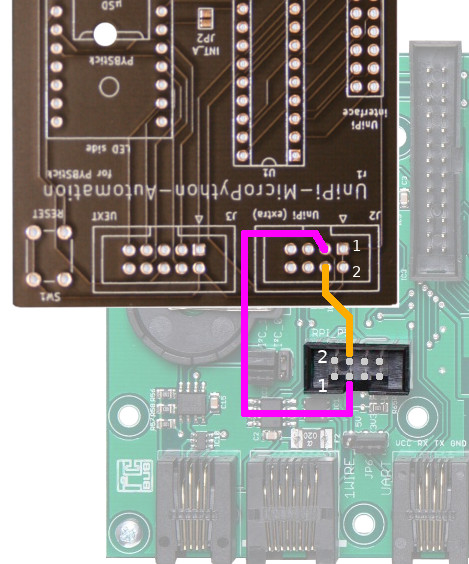
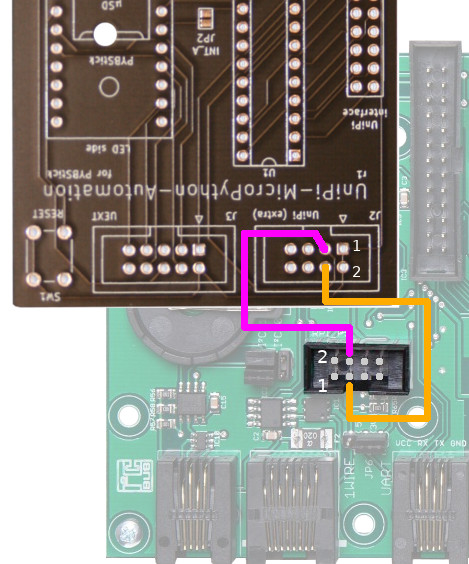
Support Pyboard & new EEPROM lib

Changed region(s): [[0.5075, 0.5124, 0.9254, 0.7535]]

diff --git a/UniPi-MicroPython-Automation/lib/unipi.py b/UniPi-MicroPython-Automation/lib/unipi.py
@@ -33,8 +33,11 @@ __version__ = '0.0.1'
 from machine import I2C, SPI, UART, Pin
 from pyb import Timer
 from mcp230xx import MCP23017, MCP23008
-from mcp24cxx import Eeprom_24C02C
+from eeprom24Cxx import Eeprom_24C02C
 import struct
+
+BOARD_PYBSTICK = 0
+BOARD_PYBOARD  = 1
 
 DEFAULT_ADC_FACTOR = 5.54 # ADC have voltage Divider 10K + 2K. More precise value is stored into the EEPROM
 
@@ -51,8 +54,9 @@ class UniPiError( Exception ):
 	pass
 
 class UniPi:
-	def __init__( self, i2c ):
+	def __init__( self, i2c, board ):
 		self.i2c = i2c # main bus for controling the UniPi interface
+		self.board = board # Type of the board BOARD_PYBOARD
 
 		# --- Relays ---
 		try:
@@ -95,10 +99,18 @@ class UniPi:
 
 		# Analog 0 (controled via PWM)
 		self._A0_percent = 0
-		self._pin_A0 = Pin( 'S12' )
-		self._tim2 = Timer(2, freq=500 ) # 500 Hz like Arduino
-		self._ch_A0 = self._tim2.channel( 1, Timer.PWM, pin=self._pin_A0 ) # Channel 1
-		self._ch_A0.pulse_width_percent( self._A0_percent )
+		if self.board == BOARD_PYBSTICK:
+			self._pin_A0 = Pin( 'S12' )
+			self._tim2 = Timer(2, freq=500 ) # 500 Hz like Arduino
+			self._ch_A0 = self._tim2.channel( 1, Timer.PWM, pin=self._pin_A0 ) # Channel 1
+			self._ch_A0.pulse_width_percent( self._A0_percent )
+		elif self.board == BOARD_PYBOARD:
+			self._pin_A0 = Pin( 'X4' )
+			self._tim2 = Timer(2, freq=500 ) # 500 Hz like Arduino
+			self._ch_A0 = self._tim2.channel( 4, Timer.PWM, pin=self._pin_A0 ) # Channel 1
+			self._ch_A0.pulse_width_percent( self._A0_percent )
+		else:
+			raise UniPiError( 'Board type %s not implemented' % self.board )
 
 	@property
 	def analog_out( self ):
@@ -114,7 +126,7 @@ class UniPi:
 		if value >= 100:
 			value = 100
 		self._A0_percent = value
-		print( "set A0 PC to %s" % self._A0_percent )
+		# print( "set A0 PC to %s" % self._A0_percent )
 		self._ch_A0.pulse_width_percent( self._A0_percent )
 
 class UExtFacade:
@@ -122,14 +134,16 @@ class UExtFacade:
 		self.owner = owner
 
 	def i2c( self, **kwargs ):
+		# I2C(1) for PYBStick & Pyboard
 		return I2C(1, **kwargs)
 
 	def spi( self, **kwargs ):
+		# SPI(1) for PYBStick & Pyboard
 		return SPI(1, **kwargs )
 
 	def uart( self, baudrate, **kwargs ):
-		return UART( 1, baudrate, **kwargs )
-
+		# UART(6) for PYBStick & Pyboard
+		return UART( 6, baudrate, **kwargs )
 
 class UniPiEeprom( Eeprom_24C02C ):
 	""" Access the EEPROM on UniPi board """
@@ -199,7 +213,7 @@ class InputFacade:
 		""" Last know state of input stored in the object """
 		index = input_to_gp( key )
 		# Input are low when activated --> Invert the logic
-		return not( self._input.input_pins( [index], read=False )  )# reused stored value
+		return not( self._input.input_pins( [index], read=False )[0]  )# reused stored value
 
 	def read_all( self, read=False ):
 		""" returns a dictionnary with all entries """
@@ -209,8 +223,31 @@ class InputFacade:
 			r[self._list[i][0]] = not(values[i])
 		return r
 
-# I2C bus for PYBStick
-i2c = I2C( 2 ) # S11=sda, S13=scl
+# Detect board type
+board_type = None
+try:
+	Pin(S12)
+	board_type = BOARD_PYBSTICK
+	print('PYBSTICK detected')
+except:
+	pass
+
+if not(board_type):
+	try:
+		Pin('X4')
+		board_type = BOARD_PYBOARD
+		print('PYBOARD detected')
+	except:
+		pass
+
+
+# Must have a board type
+if not(board_type):
+	raise UniPiError( 'Unknown MicroPython board type!' )
+
+# I2C bus for PYBStick (S11=sda, S13=scl)
+# I2C bus for Pyboard  (Y10=sda, Y9=scl)
+i2c = I2C( 2 )
 
 # Instanciate the UniPi
-unipi = UniPi( i2c )
+unipi = UniPi( i2c, board_type )

diff --git a/UniPi-MicroPython-Automation/readme_ENG.md b/UniPi-MicroPython-Automation/readme_ENG.md
@@ -2,9 +2,7 @@
 
 # UniPi-MicroPython-Automation: use an UniPi to creates a MicroPython PLC (Programmable Logic Controler)
 
-*** TRADUCTION ***
-
-Building a MicroPython programmable logic controller (PLC) is a great project. However, an automation interface should not be haphazardly designed. The [UniPi Technologie à créé l'UniPi V1.1](https://shop.mchobby.be/product.php?id_product=1171), a professional quality card designed for Raspberry-Pi.
+Building a MicroPython programmable logic controller (PLC) is a great project. However, an automation interface should not be haphazardly designed. The [UniPi Technologie created the UniPi V1.1](https://shop.mchobby.be/product.php?id_product=1171), a professional quality card designed for Raspberry-Pi.
 
 Why not using it with a MicroPython microcontroleur? We would have the __very first PLC running under Python__!
 
@@ -47,6 +45,29 @@ Many of the PYBStick signals are available on the UEXT connector. If you are not
 
 ![UEXT connector on the PYBStick UniPi Face](docs/_static/unipiface-UEXT.jpg)
 
+## GRL-Pyboard-UniPi board
+
+The [GRL-Pyboard-UniPi](https://shop.mchobby.be/product.php?id_product=2055) board allows to interface the [MicroPython Pyboard](https://shop.mchobby.be/product.php?id_product=570) on the UniPi V1.1 (or UniPi Lite).
+
+![GRL-Pyboard-UniPi interface board](docs/_static/pyboardface-final.jpg)
+
+The J2 connector must be wired (with Dupont wire) to use the I13 & I14 (the wiring is identical for the PYBStick interface)
+
+![Wire the J2 connector](docs/_static/unipi-face-j2.jpg)
+
+The MicroPython Pyboard interface schematic is the following:
+
+![PYBStick-UniPi-Face schematic](docs/_static/pyboardface-schematic.jpg)
+
+Many Pyboard GPIO are still available:
+* __Y3 & Y4__ except if you did solder the interrupt jumper for the MCP23017.
+* __Y5 à Y8, Y11, Y12__
+* __X3, X11, X12__
+* __X17 à X24__
+
+Several Pyboard signals does ends on the UEXT connector. If you do not use this interface then you can grab Pyboard sugnals onto it.
+
+![UEXT connector on the GRL Pyboard UniPi](docs/_static/pyboardface-UEXT.jpg)
 
 # Install
 You will need to copy the following libraries on your MicroPython board to use the UniPiFace + UniPi.
@@ -55,7 +76,7 @@ You will need to copy the following libraries on your MicroPython board to use t
 * `ds2482.py` : 1Wire bus master over I2C (still under development)
 * `mcp342x.py` : ADC conversion
 * `mcp2300xx.py` : GPIO extender
-* `mcp24Cxx.py` : EEPROM access
+* `eeprom24Cxx.py` : EEPROM access
 # Test
 
 ## Relays
@@ -300,8 +321,11 @@ You should have received a copy of the GNU General Public License
 along with this program.  If not, see <https://www.gnu.org/licenses/>
 
 # Shopping list
-* [PYbStick STD](https://shop.mchobby.be/product.php?id_product=1844) or [PYbStick PRO](https://shop.mchobby.be/product.php?id_product=1844)  @ MCHobby
-* [PYBStick-UniPi-Face interface board (UniPi-Face)](https://shop.mchobby.be/product.php?id_product=1891) @ MCHobby
-* [GRL-Pyboard-UniPi interface](https://shop.mchobby.be/product.php?id_product=2055) @ MCHobby)
+* Avec la PYBStick
+ * [PYbStick STD](https://shop.mchobby.be/product.php?id_product=1844) or [PYbStick PRO](https://shop.mchobby.be/product.php?id_product=1844)  @ MCHobby
+ * [PYBStick-UniPi-Face interface board (UniPi-Face)](https://shop.mchobby.be/product.php?id_product=1891) @ MCHobby
+* Avec MicroPython Pyboard
+ * [MicroPython Pyboard](https://shop.mchobby.be/product.php?id_product=570)
+ * [GRL-Pyboard-UniPi interface](https://shop.mchobby.be/product.php?id_product=2055) @ MCHobby
 * [UniPi board](https://shop.mchobby.be/product.php?id_product=1171) @ MCHobby
 * [MicroPython Pyboard board](https://shop.mchobby.be/fr/56-micropython) @ MCHobby

diff --git a/UniPi-MicroPython-Automation/readme.md b/UniPi-MicroPython-Automation/readme.md
@@ -26,7 +26,7 @@ La carte [PYBStick-UniPi-Face](https://shop.mchobby.be/product.php?id_product=18
 
 ![Carte d'interface PYBStick-UniPi-Face](docs/_static/unipiface-final.jpg)
 
-Le connecteur J2 dois aussi être branché (avec des connecteurs Dupont) pour pouvoir utiliser les entrées I13 & I14.
+Le connecteur J2 doit aussi être branché (avec des connecteurs Dupont) pour pouvoir utiliser les entrées I13 & I14.
 
 ![Brancher connecteur J2](docs/_static/unipi-face-j2.jpg)
 
@@ -45,6 +45,29 @@ De nombreux signaux du PYBStick arrivent sur le connecteur UEXT. Si vous n'emplo
 
 ![Connecteur UEXT sur PYBStick UniPi Face](docs/_static/unipiface-UEXT.jpg)
 
+## Carte GRL-Pyboard-UniPi
+La carte [GRL-Pyboard-UniPi](https://shop.mchobby.be/product.php?id_product=2055) permet d'interfacer une carte [Pyboard](https://shop.mchobby.be/product.php?id_product=570) sur la carte UniPi V1.1 (ou UniPi Lite).
+
+![Carte d'interface GRL-Pyboard-UniPi](docs/_static/pyboardface-final.jpg)
+
+Le connecteur J2 doit aussi être branché (avec des connecteurs Dupont) pour pouvoir utiliser les entrées I13 & I14 (le raccordement est identique à la PYBStick)
+
+![Brancher connecteur J2](docs/_static/unipi-face-j2.jpg)
+
+Le schéma de la carte d'interface avec MicroPython Pyboard est le suivant:
+
+![PYBStick-UniPi-Face schema](docs/_static/pyboardface-schematic.jpg)
+
+De nombreuses broches GPIO de la Pyboard sont encore disponibles:
+* __Y3 & Y4__ sauf si vous avez ponter les cavalier d'interruption du MCP23017.
+* __Y5 à Y8, Y11, Y12__
+* __X3, X11, X12__
+* __X17 à X24__
+
+Plusieurs signaux de la Pyboard arrivent sur le connecteur UEXT. Si vous n'employez pas ce connecteur avec d'autres interfaces alors vous pouvez facilement récupérer les signaux de la Pyboard sur celui-ci.
+
+![Connecteur UEXT sur GRL Pyboard UniPi](docs/_static/pyboardface-UEXT.jpg)
+
 
 # Installer
 Il est nécessaire de copier les bibliothèques suivantes sur la carte MicroPython avant de pouvoir utiliser la carte UniPiFace + UniPi.
@@ -53,7 +76,8 @@ Il est nécessaire de copier les bibliothèques suivantes sur la carte MicroPyth
 * `ds2482.py` : 1Wire bus master (still under development)
 * `mcp342x.py` : ADC conversion
 * `mcp2300xx.py` : GPIO extender
-* `mcp24Cxx.py` : EEPROM access
+* `eeprom24Cxx.py` : EEPROM access
+
 # Tester
 
 ## Sorties relais
@@ -295,9 +319,12 @@ You should have received a copy of the GNU General Public License
 along with this program.  If not, see <https://www.gnu.org/licenses/>
 
 # Où acheter
-* [PYbStick STD](https://shop.mchobby.be/product.php?id_product=1844) ou [PYbStick PRO](https://shop.mchobby.be/product.php?id_product=1844)  @ MCHobby
-* [Carte d'interface PYBStick-UniPi-Face (UniPi-Face)](https://shop.mchobby.be/product.php?id_product=1891) @ MCHobby
-* [Carte d'interface GRL-Pyboard-UniPi](https://shop.mchobby.be/product.php?id_product=2055) @ MCHobby)
+* With PYBStick
+ * [PYbStick STD](https://shop.mchobby.be/product.php?id_product=1844) or [PYbStick PRO](https://shop.mchobby.be/product.php?id_product=1844)  @ MCHobby
+ * [Carte d'interface PYBStick-UniPi-Face (UniPi-Face)](https://shop.mchobby.be/product.php?id_product=1891) @ MCHobby
+* With MicroPython Pyboard
+ * [MicroPython Pyboard](https://shop.mchobby.be/product.php?id_product=570)
+ * [Carte d'interface GRL-Pyboard-UniPi](https://shop.mchobby.be/product.php?id_product=2055) @ MCHobby
 * [Carte UniPi](https://shop.mchobby.be/product.php?id_product=1171) @ MCHobby
 * [Carte UniPi Lite](https://shop.mchobby.be/product.php?id_product=1196) @ MCHobby
 * [Cartes MicroPython Pyboard](https://shop.mchobby.be/fr/56-micropython) @ MCHobby
